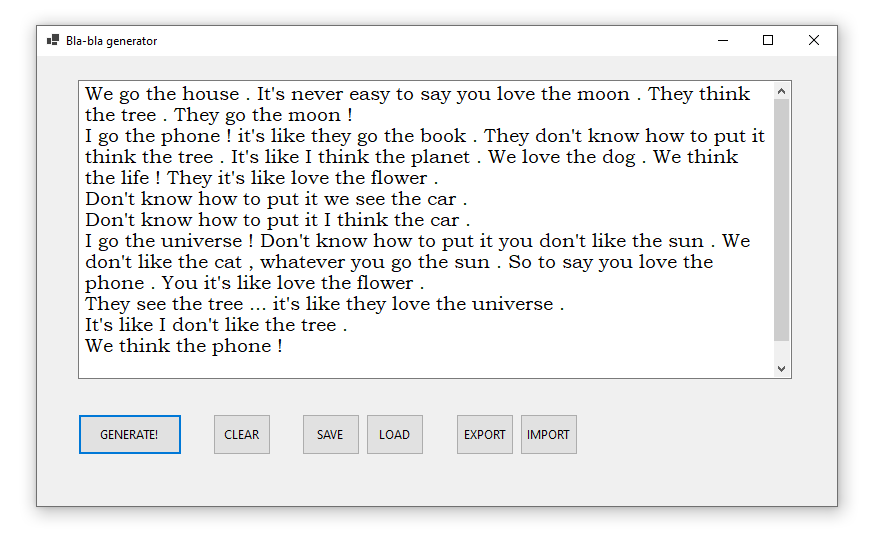
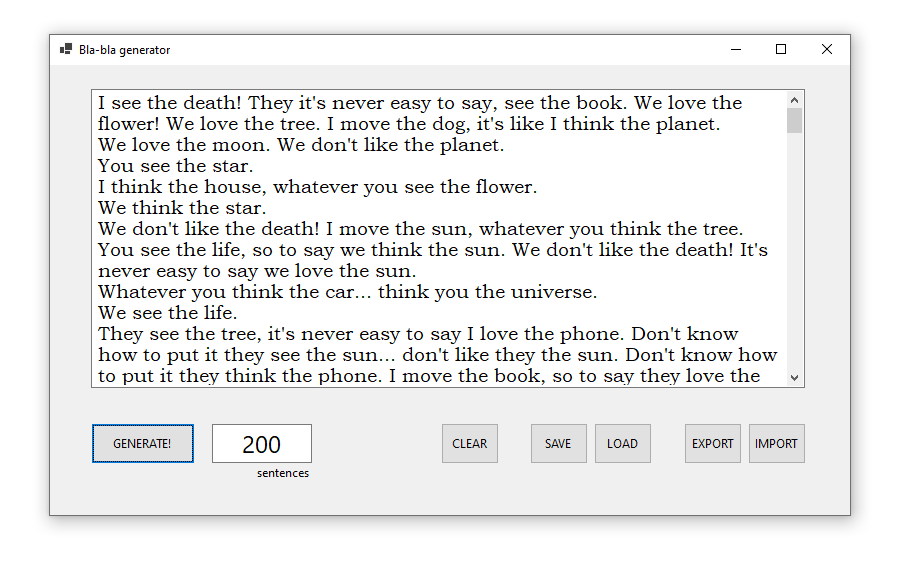
readme update

diff --git a/README.md b/README.md
@@ -7,7 +7,8 @@ User interface:
 
 The window consists of four elements:
 * Main editable text window - a generated text appears here. The text can be copied to the clipboard for further use;
-* "Generate" button - automatically clears the text window and generates new text. 
+* "Generate" button - automatically clears the text window and generates new text; 
+* "Number of sentences" textbox - defines how long the text will be;
 * "Clear" button - removes all text from the text window;
 * "Save" button - saves the text from the text windows to the local database;
 * "Load" button - loads text from the local database into the text window;
